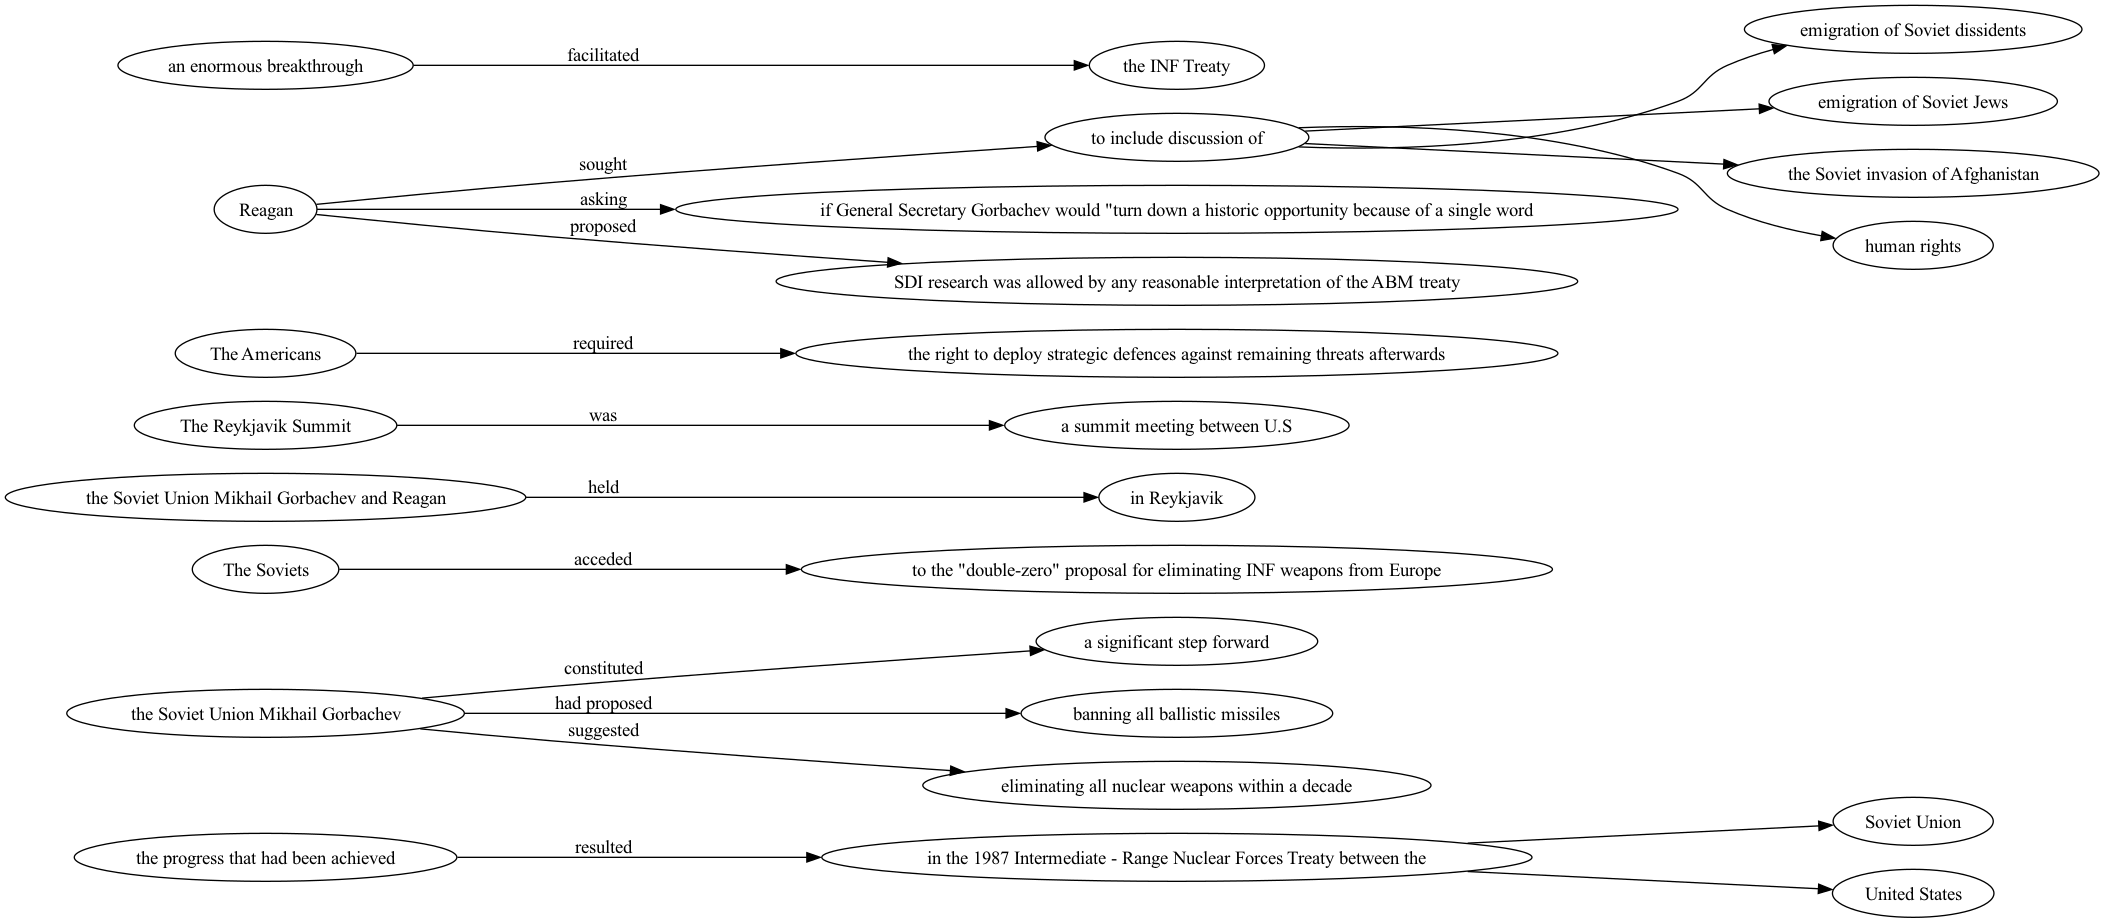
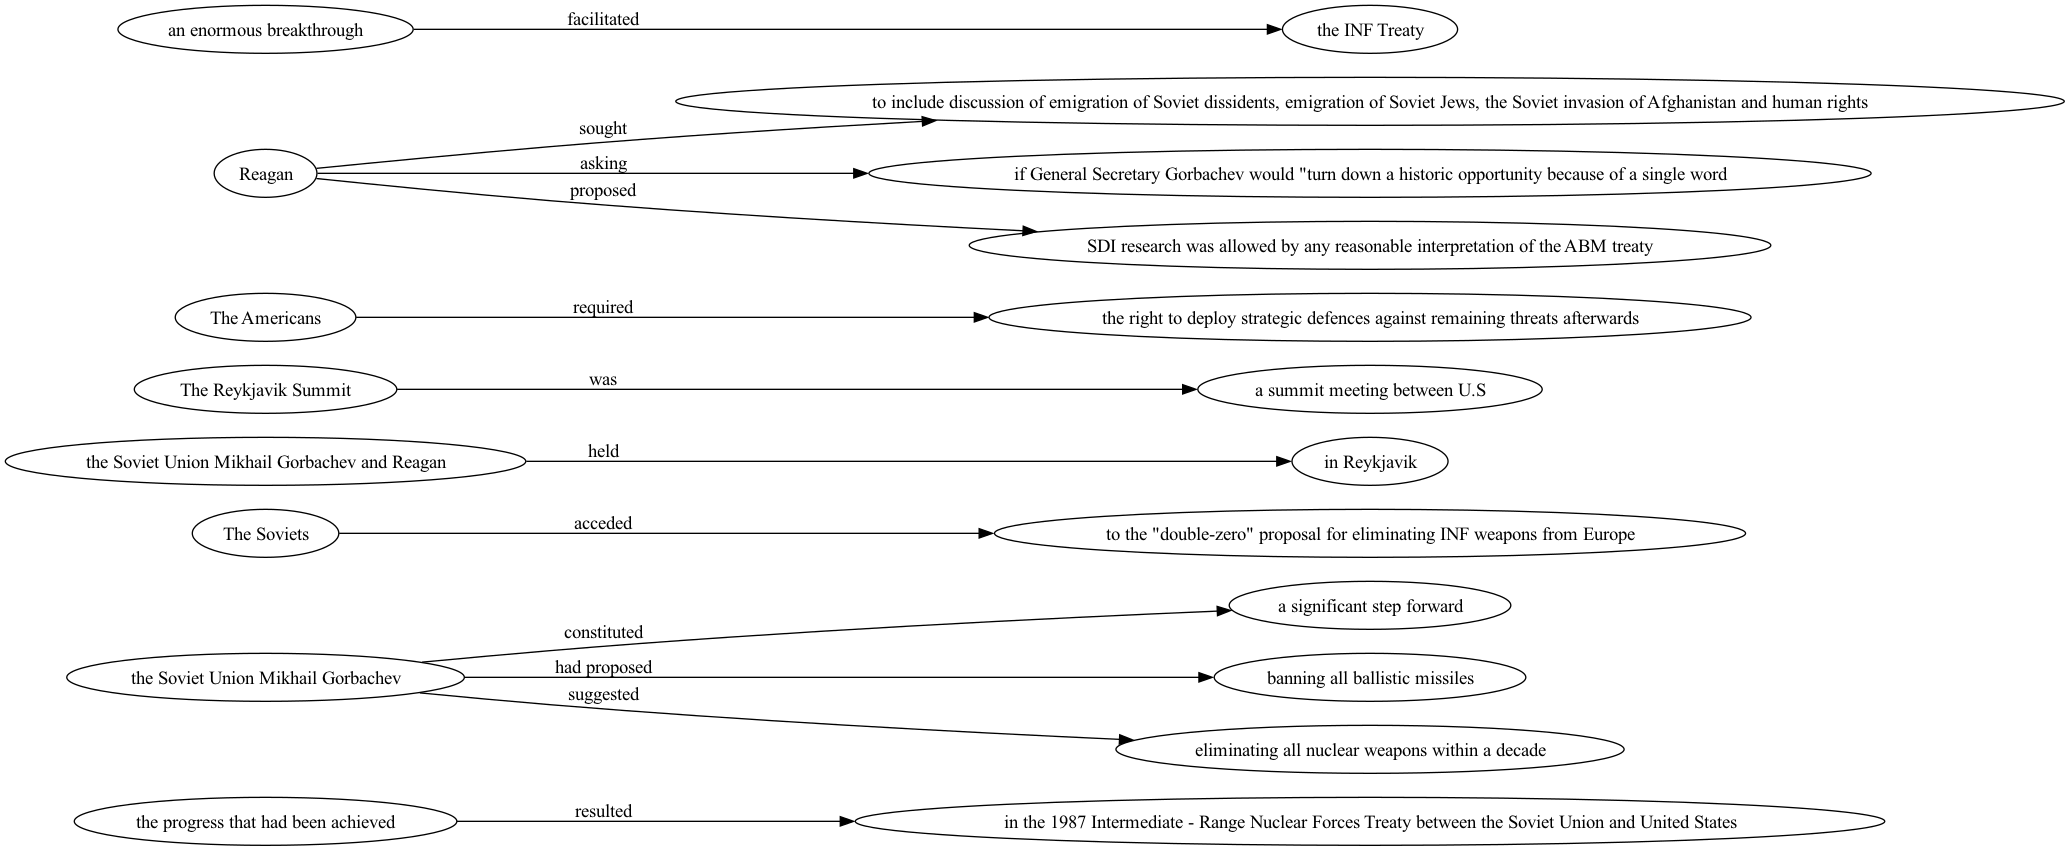
Created new  files to store modules and graph.

diff --git a/graph.py b/graph.py
@@ -1,0 +1,49 @@
+import pydot
+
+class GraphViz:
+    def __init__(self, data_relations):
+        self.subj = data_relations['arg1'].to_list()
+        self.obj = data_relations['arg2'].to_list()
+        self.rel = data_relations['rel'].to_list()
+        self.nodes = []
+        self.edges = []
+        self.seen = set()
+        self.graph = pydot.Dot(graph_type='digraph', rankdir = 'LR')
+        self.fill_graph()
+    
+    def __str__(self):
+        return 'Nodes:' + str(self.nodes) + '\n' + 'Edges:' + str(self.edges)
+    
+    def get_node(self, text):
+        if text.lower() in self.seen:
+            for node in self.nodes:
+                if node.get_attributes()['label'].lower() == text.lower():
+                    return node
+        node = pydot.Node(text, label = text)
+        self.nodes.append(node)
+        self.graph.add_node(node)
+        self.seen.add(text.lower())
+        return node
+    
+    def add_sub_nodes(self, node, key):
+        for i in range(len(DICT_COMM[key])):
+            sub_node = self.get_node(DICT_COMM[key][i])
+            sub_edge = pydot.Edge(node, sub_node, label = '')
+            self.edges.append(sub_edge)
+            self.graph.add_edge(sub_edge)
+            
+    def fill_graph(self):
+        for c1, c2, r in zip(self.subj, self.obj, self.rel):
+            #print(c1, c2, r)
+            node1 = self.get_node(c1)
+            # if any(key in c2 for key in DICT_COMM):
+            #     for key in DICT_COMM:
+            #         if any(value in c2 for value in DICT_COMM[key]):
+            #             node2 = self.get_node(key)
+            #             self.add_sub_nodes(node2, key)
+            # else:
+            #     #print('second',c2)
+            node2 = self.get_node(c2)
+            edge = pydot.Edge(node1, node2, label = ' ' + r)
+            self.edges.append(edge)
+            self.graph.add_edge(edge)

diff --git a/import_modules.py b/import_modules.py
@@ -1,0 +1,17 @@
+# Modules to be imported
+
+import   pydot, os
+import   subprocess, sys
+import   pickle, graphviz
+import   pandas as pd
+import   numpy as np
+from     pyopenie import OpenIE5
+from     unidecode import unidecode
+import   networkx as nx
+import   pylab as plt
+from     networkx.drawing.nx_agraph import graphviz_layout
+
+pd.options.mode.chained_assignment = None 
+
+
+print("All imported")
